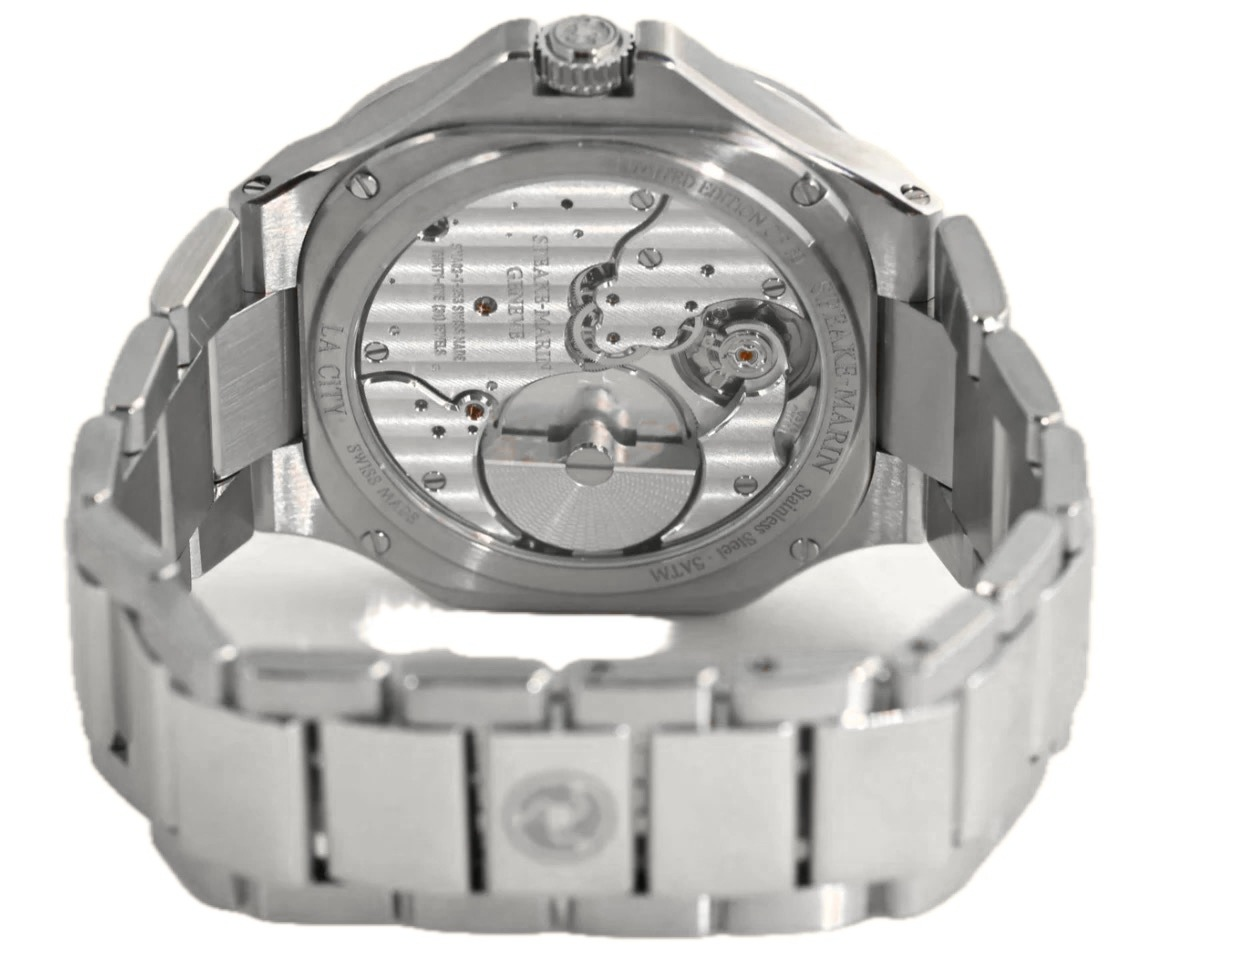
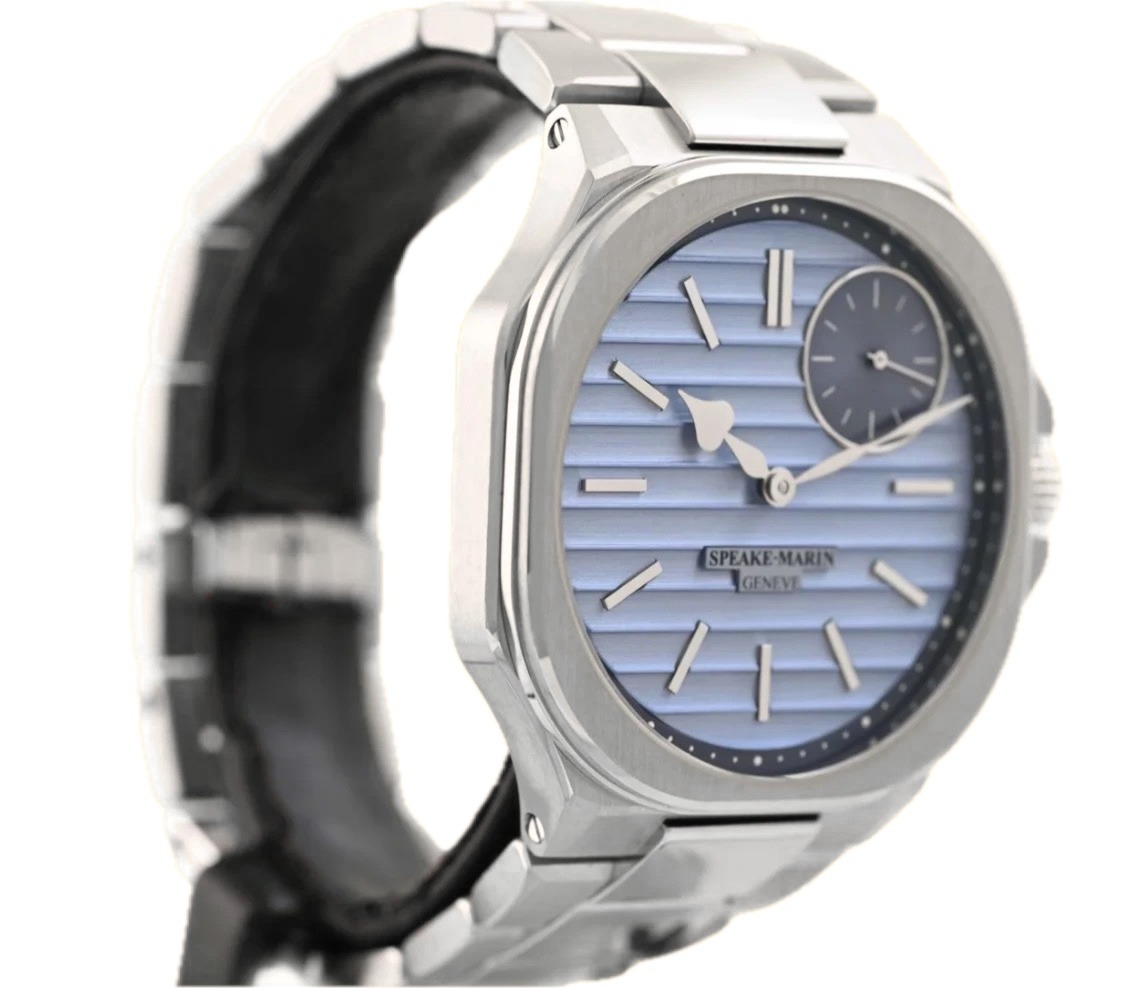
Bilder: p650 (Speake-Marin Ripples Blue Jeans Limited Edition 40,3 ) neu geordnet

diff --git a/js/data.js b/js/data.js
@@ -2987,7 +2987,8 @@ window.PRODUCTS = [
    "assets/products/p650/4.jpg",
    "assets/products/p650/5.jpg",
    "assets/products/p650/6.jpg",
-   "assets/products/p650/7.jpg"
+   "assets/products/p650/7.jpg",
+   "assets/products/p650/8.jpg"
   ],
   "shopifyId": "10631525695816"
  },
